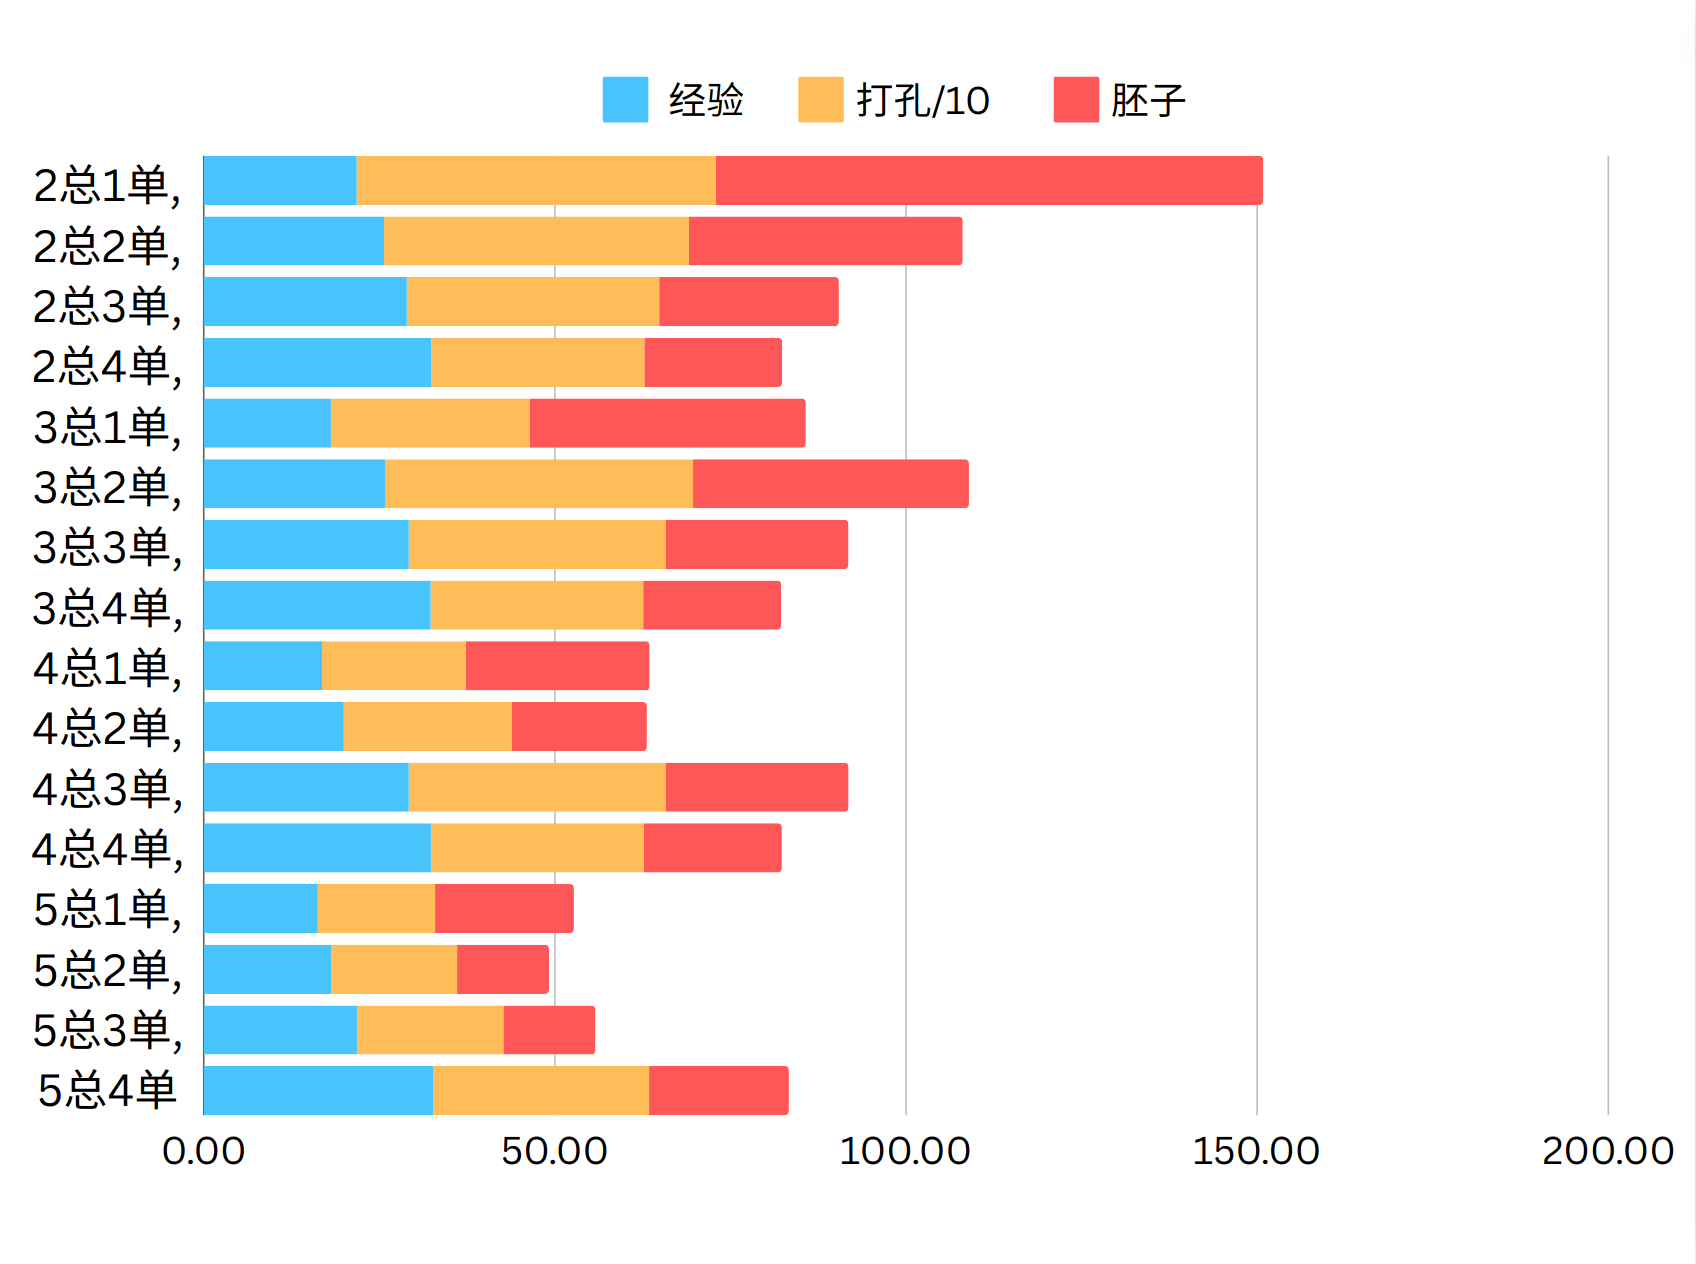
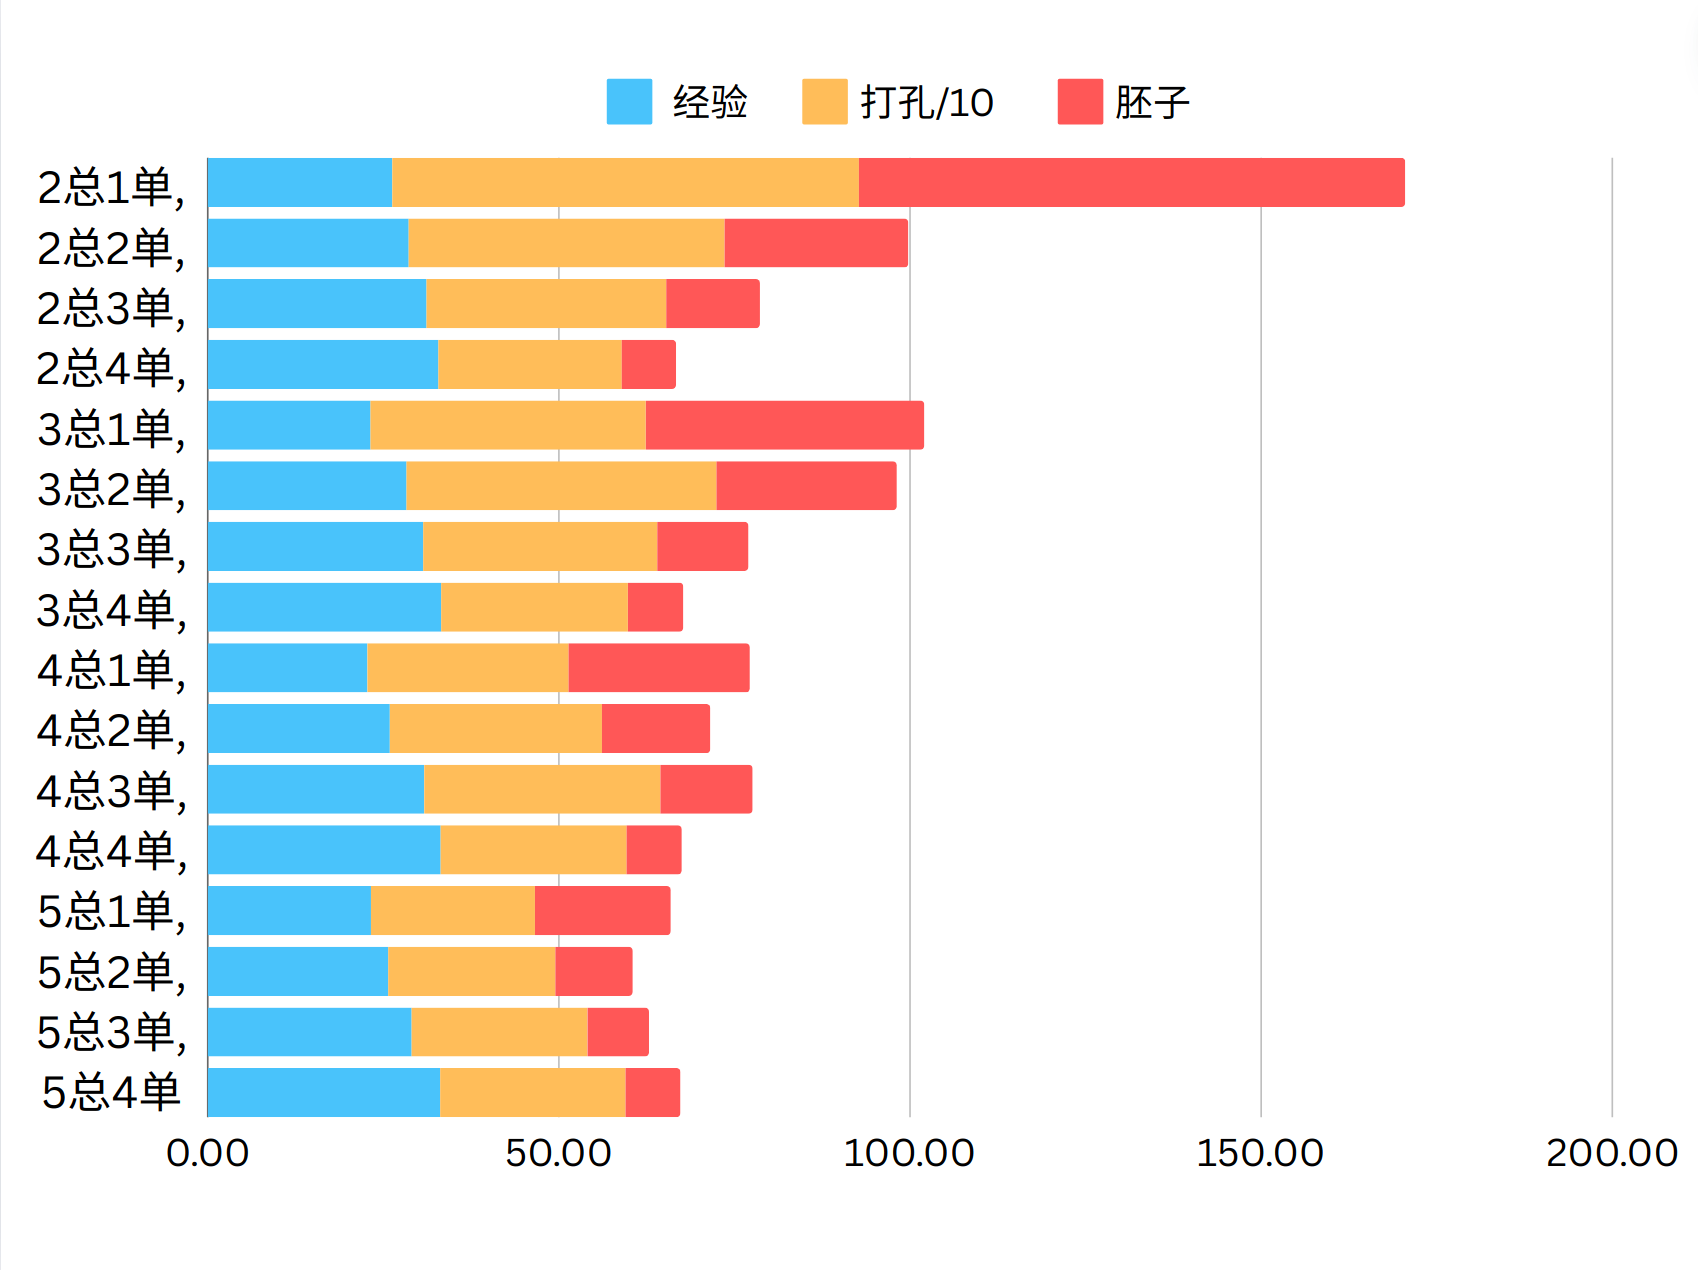
fix 2 bugs.

diff --git a/wutheringWave.py b/wutheringWave.py
@@ -1,4 +1,36 @@
 import numpy as np
+def postDataProcess(crit1Expectation):
+    crit1Expectation = [[['{:.2f}'.format(x) for x in item] for item in sublist] for sublist in crit1Expectation]
+    for rowIdx, earlyDiscard in enumerate(earlyDiscards):
+        print("Discard if no double crit after first " + str(earlyDiscard + 1))
+        for col in range(crit1DiscardChecks):
+            print("Discard if no crit after " + str(col + 1), crit1Expectation[rowIdx][col])
+        print("\n")
+    print(crit1Expectation)
+
+    data = [[[float(item[0]), float('{:.2f}'.format(float(item[1]) / 10)), float(item[2])] for item in sublist] for
+            sublist in crit1Expectation]
+
+    newData = [[0 for col in range(3)] for row in range(16)]
+    for row in range(len(data)):
+        for col in range(len(data[0])):
+            for type in range(3):
+                newData[row * 4 + col][type] = data[row][col][type]
+
+    for row in newData:
+        print(row, '\n')
+
+    # csv = ''
+    # csv += '2总1单,2总2单,2总3单,2总4单,3总1单,3总2单,3总3单,3总4单,4总1单,4总2单,4总3单,4总4单,5总1单,5总2单,5总3单,5总4单\n'
+
+    csv = '经验, 打孔/10, 胚子\n'
+    for row in newData:
+        for val in row:
+            csv += str(val) + ','
+        csv = csv[:len(csv) - 1]
+        csv += "\n"
+    with open('wutheringwave.csv', 'w') as file:
+        file.write(csv)
 
 EXP_REUSE = 0.75
 HOLE_REUSE = 0.3
@@ -15,6 +47,7 @@ targetAmount = 10000
 crit1DiscardChecks = 4
 
 earlyDiscards = [1, 2, 3, 4]
+# earlyDiscards = [4]
 
 crit1Expectation = [[-1 for col in range(4)] for row in range(len(earlyDiscards))]
 
@@ -56,8 +89,10 @@ for idx, earlyDiscard in enumerate(earlyDiscards):
                 holeTotal += 10 * (checkLevel + 1) - curHole
                 curExp = expAccu[checkLevel]
                 curHole = 10 * (checkLevel + 1)
+                curExp -= expAccu[checkLevel] * (1 - EXP_REUSE)
+                curHole -= 10 * (checkLevel + 1) * (1 - HOLE_REUSE)
 
-                if 0 in echo[discard_idx+1: checkLevel + 1] or 1 in echo[discard_idx+1: checkLevel + 1]:
+                if 0 in echo[:checkLevel + 1] and 1 in echo[:checkLevel + 1]:
                     doubleCRIT = True
                     expTotal += expAccu[4] - expAccu[checkLevel]
                     holeTotal += 50 - (10 * (checkLevel + 1))
@@ -72,37 +107,21 @@ for idx, earlyDiscard in enumerate(earlyDiscards):
         expExpected = sum(expHistory) / targetAmount
         holeExpected = sum(holeHistory) / targetAmount
         embryoExpected = sum(embryoHistory) / targetAmount
+
+        # print("expHistory:", expHistory)
+        # print("holeHistory:", holeHistory)
+        # print("embryoHistory:", embryoHistory)
+        # print("")
+        #
+        # print("expExpected:", expExpected)
+        # print("holeExpected:", holeExpected)
+        # print("embryoExpected:", embryoExpected)
+        # print("")
+        # print("")
+
         crit1Expectation[idx][discard_idx] = (
             # 'del1:' + str(discard_idx + 1) + ' del2:' + str(earlyDiscard + 1),
             expExpected, holeExpected, embryoExpected)
 
-crit1Expectation = [[['{:.2f}'.format(x) for x in item] for item in sublist] for sublist in crit1Expectation]
-for rowIdx, earlyDiscard in enumerate(earlyDiscards):
-    print("Discard if no double crit after first " + str(earlyDiscard + 1))
-    for col in range(crit1DiscardChecks):
-        print("Discard if no crit after " + str(col + 1), crit1Expectation[rowIdx][col])
-    print("\n")
-print(crit1Expectation)
 
-data = [[[float(item[0]), float('{:.2f}'.format(float(item[1])/10)), float(item[2])] for item in sublist] for sublist in crit1Expectation]
-
-newData = [[0 for col in range(3)] for row in range(16)]
-for row in range(len(data)):
-    for col in range(len(data[0])):
-        for type in range(3):
-            newData[row * 4 + col][type] = data[row][col][type]
-
-for row in newData:
-    print(row, '\n')
-
-# csv = ''
-# csv += '2总1单,2总2单,2总3单,2总4单,3总1单,3总2单,3总3单,3总4单,4总1单,4总2单,4总3单,4总4单,5总1单,5总2单,5总3单,5总4单\n'
-
-csv = '经验, 打孔/10, 胚子\n'
-for row in newData:
-    for val in row:
-        csv += str(val) + ','
-    csv = csv[:len(csv)-1]
-    csv += "\n"
-with open('wutheringwave.csv', 'w') as file:
-    file.write(csv)
+postDataProcess(crit1Expectation)
